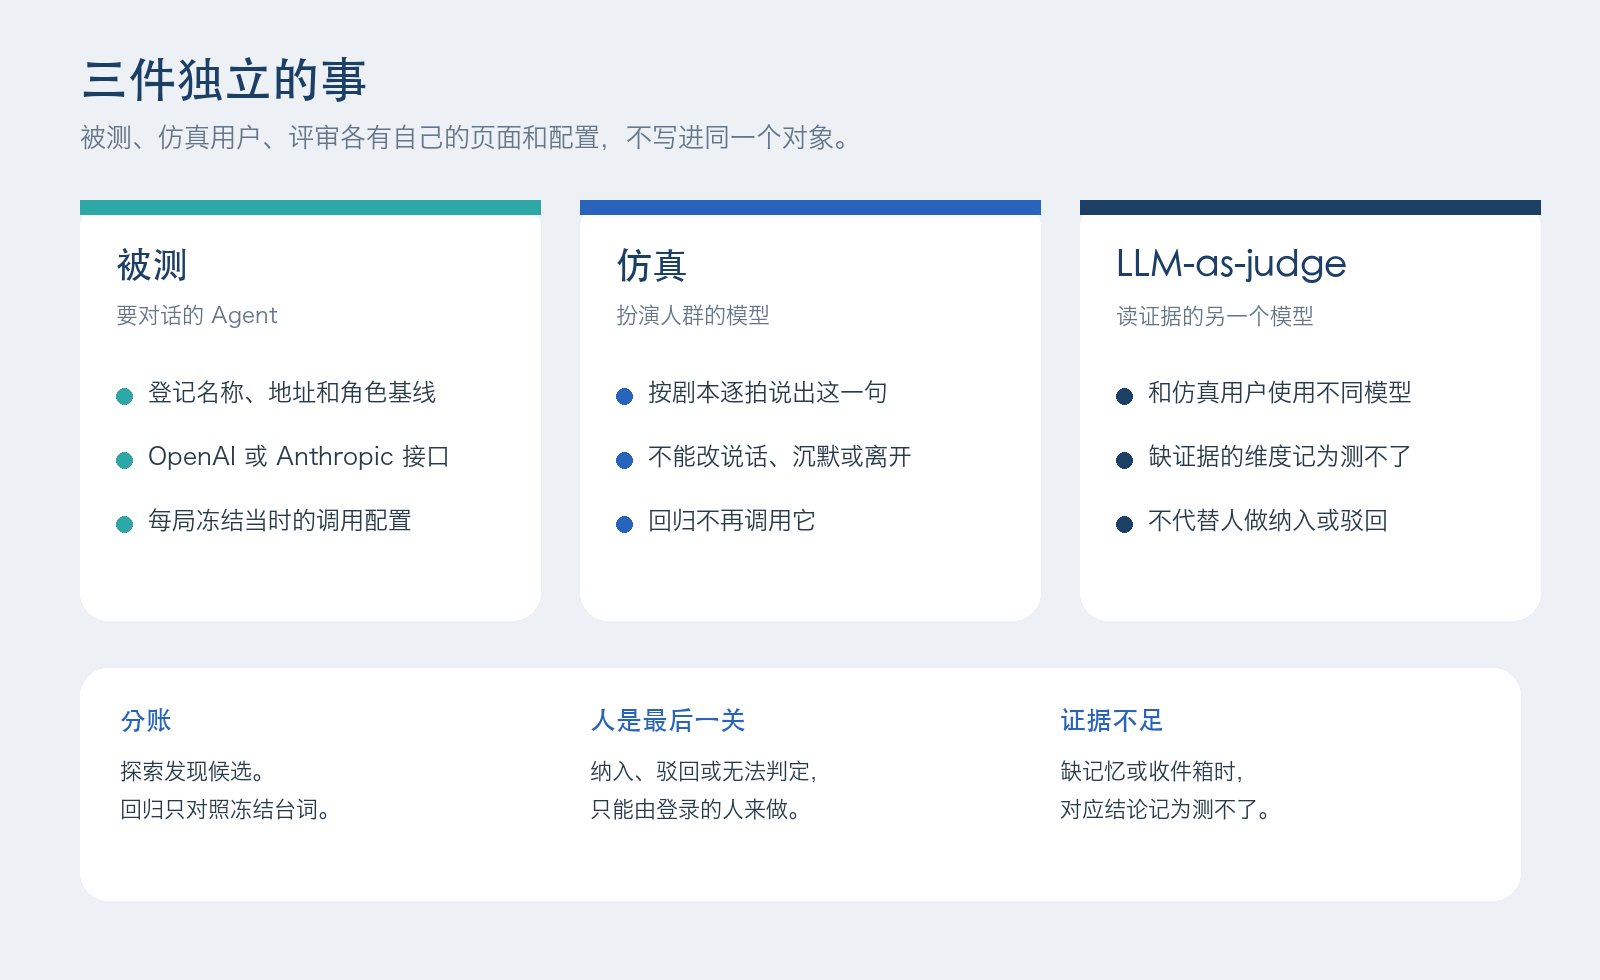
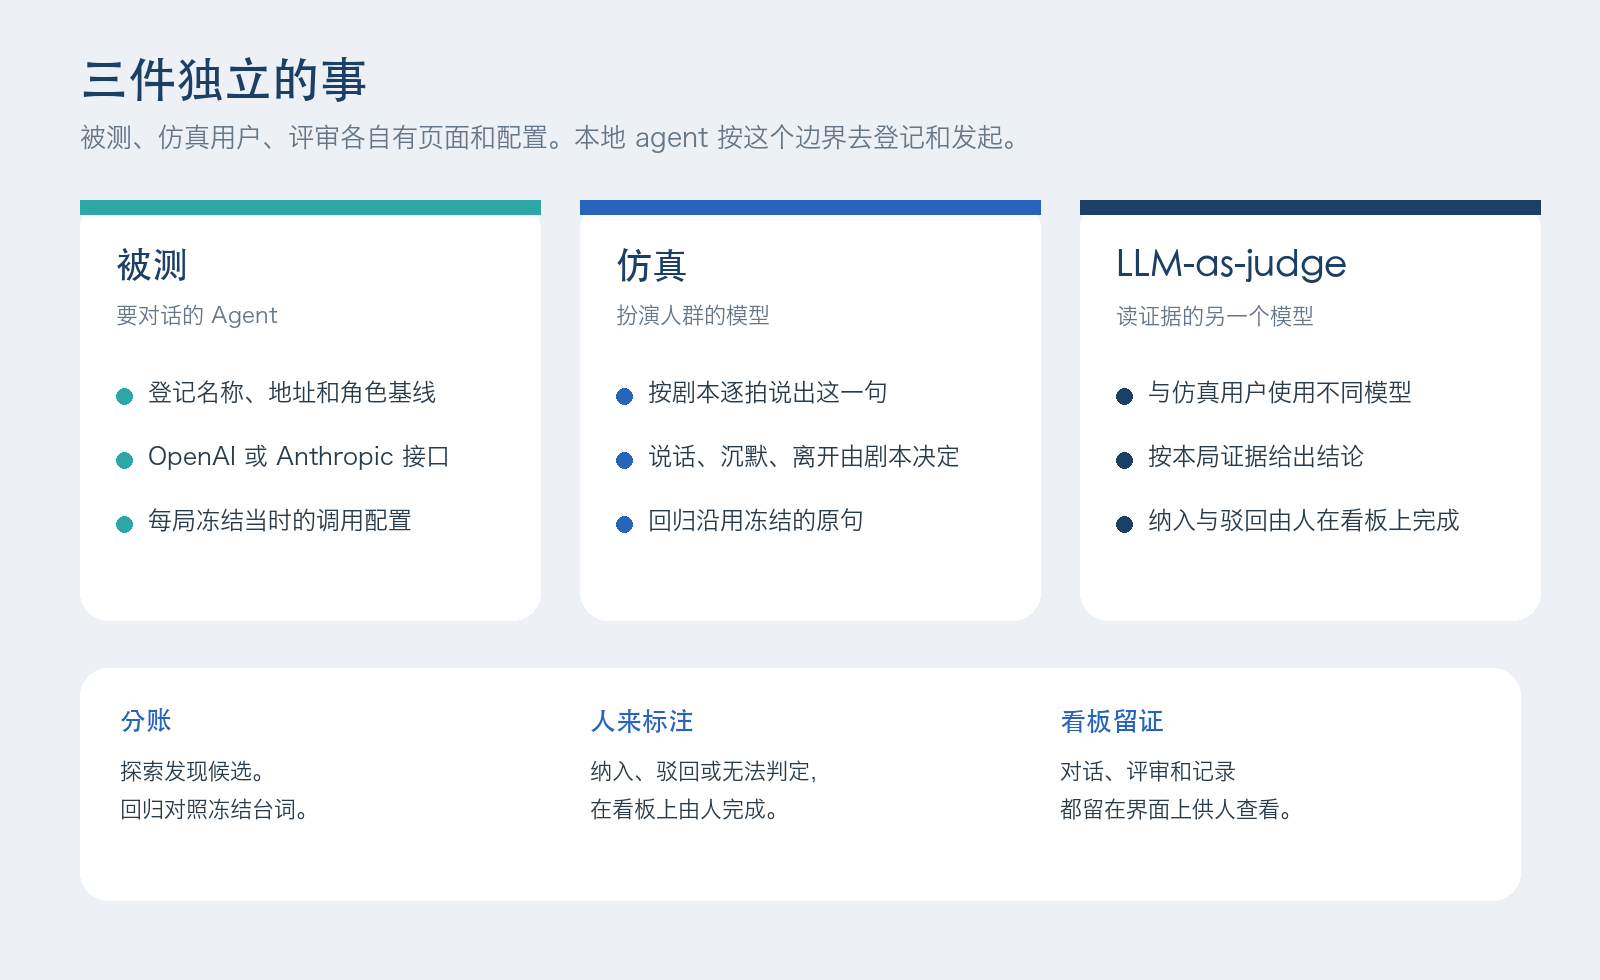
Rewrite the README around the AI-native way of working.
People state intent and annotate on the board; a local agent drives CompanionSim.

diff --git a/README.md b/README.md
@@ -2,58 +2,76 @@
   <img src="docs/readme/hero.png" alt="CompanionSim：虚拟陪伴与角色扮演模拟器" width="100%">
 </p>
 
-CompanionSim 用可控的虚拟人群和剧本，让一个仿真用户与被测 Agent 对话，再由另一个模型读证据。人决定哪几局对话值得留下。留下的台词被冻结，用来做版本回归。
+CompanionSim 是一个 **AI Native** 的虚拟陪伴与角色扮演模拟器。
 
-仿真对话不进入训练，也不作为发版门禁。
+人通过自己的本地 agent 来使用它：说出要测什么人、什么场景、哪一个被测 Agent。本地 agent 负责编写人群和剧本、登记被测、发起运行、读回证据。CompanionSim 负责把这一局真正跑起来，并把对话、评审和记录放在看板上。
+
+人回到看板上看结果，并做标注：纳入回归、驳回，或标成无法判定。传统后台里要人自己填写的大段表单和描述，在这里交给本地 agent。
 
 许可证：[Apache-2.0](LICENSE)。
 
 ## 它在做什么
 
 <p align="center">
-  <img src="docs/readme/features.png" alt="被测、仿真和 LLM-as-judge 是三件独立的事" width="100%">
+  <img src="docs/readme/features.png" alt="被测、仿真和 LLM-as-judge 各自有页面和配置" width="100%">
 </p>
 
 | 页面 | 管什么 |
 | --- | --- |
 | 被测 | 要对话的 Agent。可以是内置样例，或一条 OpenAI / Anthropic 兼容接口 |
-| 仿真 | 扮演人群、按剧本逐拍说话的模型。回归不再调用它 |
-| LLM-as-judge | 对话结束后读证据的另一个模型。不能代替人做判定 |
+| 仿真 | 探索时扮演人群、按剧本逐拍说话的模型。回归沿用已经冻结的原句 |
+| LLM-as-judge | 对话结束后读证据的另一个模型。纳入回归和驳回在看板上由人完成 |
 
-人群和剧本分开保存，改人会留下旧版本。探索时台词当场生成；只有人选择「纳入回归」之后，平台才把这局台词写成快照。
+人群和剧本分开保存，改人会留下旧版本。探索时台词由仿真用户当场生成。人在看板上选择「纳入回归」之后，平台把这局台词写成快照，供以后的回归使用。
 
 ## 怎么走一遍
 
+人、本地 agent、CompanionSim 是三条线。人提出意图，也做最后的标注。本地 agent 把意图变成平台能执行的操作。CompanionSim 执行，并把结果放回看板。
+
 <p align="center">
-  <img src="docs/readme/flow.png" alt="从选择人群、剧本和被测，到探索、评审、人判定、冻结和回归" width="100%">
+  <img src="docs/readme/flow.png" alt="人通过本地 agent 操作 CompanionSim，看板用来看结果和标注" width="100%">
 </p>
 
 ```mermaid
-flowchart TD
-  pick[选择人群、剧本和被测] --> hunt[探索：仿真用户按剧本说话]
-  hunt --> reply[被测回复，留下时间和请求记录]
-  reply --> judge[LLM-as-judge 读证据]
-  judge --> human{人判定}
-  human -->|纳入回归| snap[冻结这局台词]
-  human -->|驳回或无法判定| keep[记录保留，不写快照]
-  snap --> replay[回归：只重放冻结句，可换被测]
-  replay --> reply2[新的被测回复]
-  reply2 --> judge2[再评审一次]
+flowchart LR
+  human[人]
+  agent[本地 agent]
+  app[CompanionSim]
+  human -->|提出要测什么| agent
+  agent -->|登记、编排、发起运行、读证据| app
+  app -->|看板：对话、评审、记录| human
+  human -->|在看板上标注| app
 ```
 
-回归路径不调用仿真用户。评审失败可以只重试评审，不必重跑对话。
+一次运行在 CompanionSim 里是这样推进的：
+
+```mermaid
+flowchart TD
+  pick[人群 × 剧本 × 被测] --> hunt[探索：仿真用户按剧本说话]
+  hunt --> reply[被测回复，留下时间和请求记录]
+  reply --> judge[LLM-as-judge 读证据]
+  judge --> board[结果出现在看板上]
+  board --> human{人标注}
+  human -->|纳入回归| snap[冻结这局台词]
+  human -->|驳回或无法判定| keep[记录留在看板上]
+  snap --> replay[回归：重放冻结句，可换被测]
+  replay --> reply2[新的被测回复]
+  reply2 --> judge2[再评审一次，回到看板]
+```
+
+本地 agent 的操作说明在 [companionsim-ops](.cursor/skills/companionsim-ops/SKILL.md)。人群和剧本的写法在 [companionsim-author](.cursor/skills/companionsim-author/SKILL.md)。登录后也可以在「我的」页把这两份说明打成包交给 agent。
 
 ## 5 分钟跑起来
 
-需要 Docker。`docker-compose.yml` 里是一个应用进程加 MySQL 8，端口 **5260**。里面的数据库口令和 `ADMIN_PASSWORD` 是本机示例，不要拿到公网上用。
+需要 Docker。`docker-compose.yml` 里是一个应用进程加 MySQL 8，端口 **5260**。里面的数据库口令和 `ADMIN_PASSWORD` 是本机示例，公网部署前请换成自己的。
 
 ```bash
 docker compose up --build
 ```
 
-浏览器打开 <http://localhost:5260>，用 compose 里的 `ADMIN_USERNAME` 和 `ADMIN_PASSWORD` 登录。没有自助注册。管理员可以在「管理」页创建其他账号。
+浏览器打开 <http://localhost:5260>，用 compose 里的 `ADMIN_USERNAME` 和 `ADMIN_PASSWORD` 登录。账号由管理员创建。管理员在「管理」页添加其他账号。
 
-第一次可以先选内置样例 `fixture` 把流程跑通，不必先接外部模型。
+第一次用内置样例 `fixture` 把看板和运行走通。接外部模型时，把密钥交给本地 agent，或写进 `.env.local`。
 
 ## 本地开发
 
@@ -74,25 +92,18 @@ npm run dev
 
 打开 <http://localhost:5260>。
 
-模型密钥放在环境变量或 `.env.local`。这个文件已被忽略，不要提交。变量名与配置里的 `${ENV}` 一致，模板见 [`.env.example`](.env.example)。
+模型密钥放在环境变量或 `.env.local`。这个文件已被忽略，请勿提交。变量名与配置里的 `${ENV}` 一致，模板见 [`.env.example`](.env.example)。
 
-## 接上你的 Agent 和模型
+## 接上被测和两个模型
 
 被测、仿真用户、评审都是可配置的 HTTP 连接，写在 `config/suts.json`。`api` 取 `openai`（Chat Completions）或 `anthropic`（Messages）。密钥写成 `${ENV}`。
 
 - 仿真用户的模型和连接在 `config/fake-user.json`
 - 评审的模型和连接在 `config/judge.json`
 
-两边应当使用不同的模型。改这三份配置需要管理员。
+仿真用户和评审使用不同的模型。这三份配置由管理员维护，也可以由持有管理员会话的本地 agent 来改。
 
-登录后可以在「我的」页签发 API Key，交给本地 Agent。Key 可以读取、提交素材和发起运行，不能做纳入回归或驳回，也不能改被测和模型配置。人群和剧本的写法见 [编排规范](docs/agent-spec.md)，也可以用仓库里的 [companionsim-author](.cursor/skills/companionsim-author/SKILL.md)。
-
-## 本版不做
-
-- 不把仿真时钟注入被测的「现在」。时间只用来标注对话先后。
-- 不把异常对话自动聚类。人直接看待审队列。
-- 被测没有记忆或收件箱接口时，对应维度记为测不了，不记成通过。
-- 应用是单进程。同一记忆域内的运行串行执行。
+登录后在「我的」页签发 API Key，交给本地 agent。Key 用来读取、提交素材和发起运行。纳入回归、驳回，以及被测和模型配置，留在看板上由人完成。
 
 ## 文档
 
